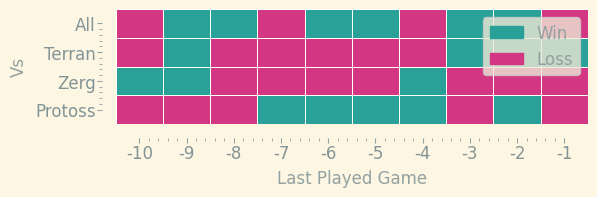
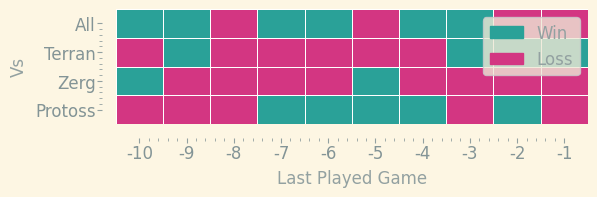
running on push

diff --git a/docs/index.md b/docs/index.md
@@ -18,11 +18,11 @@ layout: home
   <tbody>
     <tr>
       <td>Matches Played</td>
-      <td>1147</td>
+      <td>1148</td>
     </tr>
     <tr>
       <td>MMR Gained</td>
-      <td>11214</td>
+      <td>11236</td>
     </tr>
     <tr>
       <td>MMR lost</td>
@@ -116,7 +116,7 @@ layout: home
 |:--------|-------:|---------:|--------:|---------------:|-------------:|-----------:|
 | Protoss |    205 |      256 |     461 |        44.4685 |         3579 |       4650 |
 | Terran  |    122 |      162 |     284 |        42.9577 |         3113 |       2330 |
-| Zerg    |    237 |      164 |     401 |        59.1022 |         3624 |       3765 |
+| Zerg    |    238 |      164 |     402 |        59.204  |         3624 |       3765 |
 
 ![Games by Race](./assets/gm_hist.png)
 
